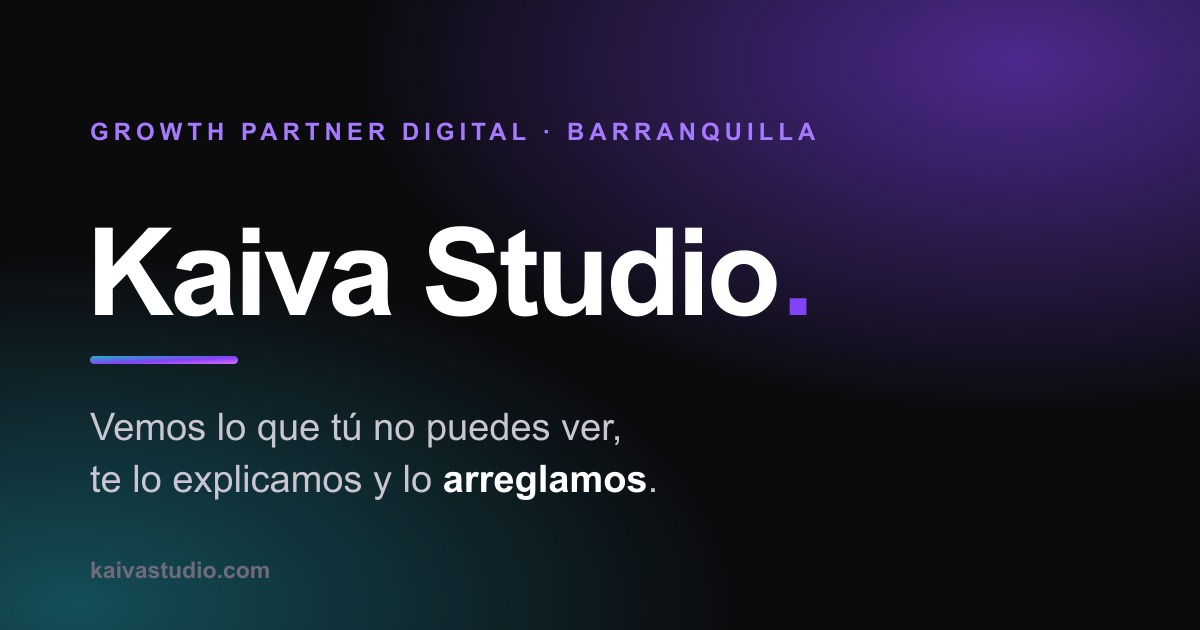
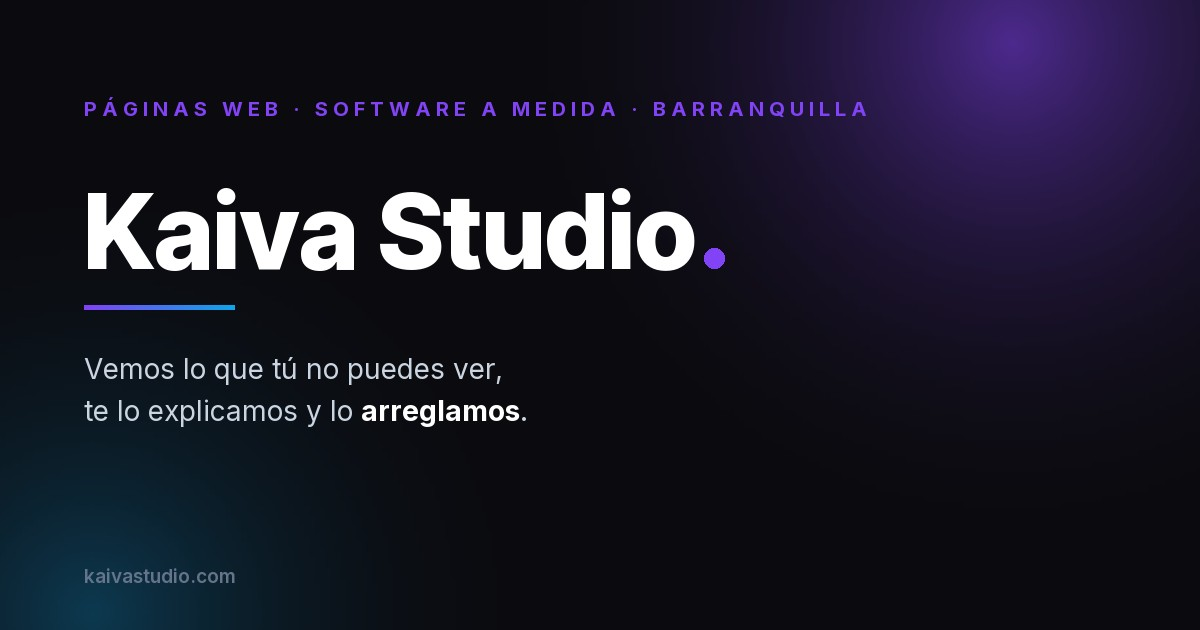
Cinco imagenes de marca, cuatro marcas distintas: ahora salen todas de un guion
Nicolas vio el favicon roto en Search Console y el icono VIEJO en los
resultados de Google, y que el actual no lleva el punto morado. Al ir a
mirarlo, el problema era mas grande: habia cinco imagenes de marca publicadas
a la vez y cuatro marcas diferentes dentro de ellas.

  · logo-kaiva.png ............ "Kaiva Studio." con el punto morado REDONDO
  · kaiva-wordmark-footer.png . "Kaiva" en blanco, sin punto y sin "Studio"
  · favicon.ico / -64 / -96 ... la K sola, SIN punto
  · apple-touch-icon.png ...... un circulo morado con una cara de gato, de
                                una generacion anterior de la marca
  · kaiva-og.jpg .............. "Kaiva Studio." con el punto CUADRADO y el
                                posicionamiento "GROWTH PARTNER DIGITAL"

Cada una se hizo a mano en un momento distinto y por eso divergieron. Es el
mismo mecanismo que habia partido el :root en cinco copias, aplicado a las
imagenes: la forma de que no vuelva a pasar no es acordarse, es que salgan
todas de un sitio.

`tool/src/generar-iconos.py` produce el juego entero desde una sola fuente.
La K NO se redibuja: se recorta del wordmark del pie, que es el archivo de
mayor resolucion que existe de la marca --2400x580, la K sola mide 597x570--.
Se separa por componentes conexas y no por un corte vertical, porque la K y
la "a" se tocan casi: la columna mas vacia entre las dos todavia tiene 81
pixeles de tinta y cortar ahi le arrancaria la pierna a la K. Redibujarla con
[…]

diff --git a/index.html b/index.html
@@ -44,8 +44,9 @@
   <meta name="author" content="Kaiva Studio">
   <meta name="theme-color" content="#0b0b0e">
   <link rel="icon" href="/favicon.ico" sizes="48x48">
-  <link rel="icon" href="/assets/favicon-96.png?v=20260805" type="image/png" sizes="96x96">
-  <link rel="apple-touch-icon" href="assets/apple-touch-icon.png">
+  <link rel="icon" href="/assets/favicon-96.png?v=20260809" type="image/png" sizes="96x96">
+  <link rel="icon" href="/assets/favicon-192.png?v=20260809" type="image/png" sizes="192x192">
+  <link rel="apple-touch-icon" href="/assets/apple-touch-icon.png?v=20260809">
 
   <!-- Open Graph -->
   <meta property="og:type" content="website">
@@ -58,7 +59,7 @@
   <meta property="og:image" content="https://kaivastudio.com/assets/kaiva-og.jpg">
   <meta property="og:image:width" content="1200">
   <meta property="og:image:height" content="630">
-  <meta property="og:image:alt" content="Kaiva Studio — Growth Partner digital">
+  <meta property="og:image:alt" content="Kaiva Studio — páginas web y software a medida en Barranquilla">
 
   <!-- Twitter / X -->
   <meta name="twitter:card" content="summary_large_image">

diff --git a/monitor/index.html b/monitor/index.html
@@ -51,8 +51,9 @@
   <meta name="twitter:description" content="Tu Índice de Salud Digital en 60 segundos. Gratis, sin registro.">
   <meta name="twitter:image" content="https://kaivastudio.com/assets/kaiva-og.jpg">
   <link rel="icon" href="/favicon.ico" sizes="48x48">
-  <link rel="icon" href="/assets/favicon-96.png?v=20260805" type="image/png" sizes="96x96">
-  <link rel="apple-touch-icon" href="../assets/apple-touch-icon.png">
+  <link rel="icon" href="/assets/favicon-96.png?v=20260809" type="image/png" sizes="96x96">
+  <link rel="icon" href="/assets/favicon-192.png?v=20260809" type="image/png" sizes="192x192">
+  <link rel="apple-touch-icon" href="/assets/apple-touch-icon.png?v=20260809">
   <!-- Fuentes autoalojadas, mismo criterio que la home: sin orígenes externos. -->
   <link rel="preload" href="../assets/fonts/inter-latin-var.woff2" as="font" type="font/woff2" crossorigin>
   <link rel="preload" href="../assets/fonts/inter-tight-latin-var.woff2" as="font" type="font/woff2" crossorigin>

diff --git a/404.html b/404.html
@@ -39,8 +39,9 @@
   <meta name="robots" content="noindex, follow">
   <meta name="theme-color" content="#ffffff">
   <link rel="icon" href="/favicon.ico" sizes="48x48">
-  <link rel="icon" href="/assets/favicon-96.png?v=20260805" type="image/png" sizes="96x96">
-  <link rel="apple-touch-icon" href="/assets/apple-touch-icon.png">
+  <link rel="icon" href="/assets/favicon-96.png?v=20260809" type="image/png" sizes="96x96">
+  <link rel="icon" href="/assets/favicon-192.png?v=20260809" type="image/png" sizes="192x192">
+  <link rel="apple-touch-icon" href="/assets/apple-touch-icon.png?v=20260809">
   <link rel="preload" href="/assets/fonts/inter-latin-var.woff2" as="font" type="font/woff2" crossorigin>
   <link rel="preload" href="/assets/fonts/inter-tight-latin-var.woff2" as="font" type="font/woff2" crossorigin>
   <link rel="stylesheet" href="/assets/tokens.css?v=20260808c">

diff --git a/cookies/index.html b/cookies/index.html
@@ -34,8 +34,9 @@
   <meta name="robots" content="index, follow">
   <meta name="theme-color" content="#ffffff">
   <link rel="icon" href="/favicon.ico" sizes="48x48">
-  <link rel="icon" href="/assets/favicon-96.png?v=20260805" type="image/png" sizes="96x96">
-  <link rel="apple-touch-icon" href="/assets/apple-touch-icon.png">
+  <link rel="icon" href="/assets/favicon-96.png?v=20260809" type="image/png" sizes="96x96">
+  <link rel="icon" href="/assets/favicon-192.png?v=20260809" type="image/png" sizes="192x192">
+  <link rel="apple-touch-icon" href="/assets/apple-touch-icon.png?v=20260809">
   <link rel="preload" href="/assets/fonts/inter-latin-var.woff2" as="font" type="font/woff2" crossorigin>
   <link rel="stylesheet" href="/assets/tokens.css?v=20260808c">
   <link rel="stylesheet" href="/assets/legal.css?v=20260808c">

diff --git a/privacidad/index.html b/privacidad/index.html
@@ -34,8 +34,9 @@
   <meta name="robots" content="index, follow">
   <meta name="theme-color" content="#ffffff">
   <link rel="icon" href="/favicon.ico" sizes="48x48">
-  <link rel="icon" href="/assets/favicon-96.png?v=20260805" type="image/png" sizes="96x96">
-  <link rel="apple-touch-icon" href="/assets/apple-touch-icon.png">
+  <link rel="icon" href="/assets/favicon-96.png?v=20260809" type="image/png" sizes="96x96">
+  <link rel="icon" href="/assets/favicon-192.png?v=20260809" type="image/png" sizes="192x192">
+  <link rel="apple-touch-icon" href="/assets/apple-touch-icon.png?v=20260809">
   <link rel="preload" href="/assets/fonts/inter-latin-var.woff2" as="font" type="font/woff2" crossorigin>
   <link rel="stylesheet" href="/assets/tokens.css?v=20260808c">
   <link rel="stylesheet" href="/assets/legal.css?v=20260808c">

diff --git a/terminos/index.html b/terminos/index.html
@@ -34,8 +34,9 @@
   <meta name="robots" content="index, follow">
   <meta name="theme-color" content="#ffffff">
   <link rel="icon" href="/favicon.ico" sizes="48x48">
-  <link rel="icon" href="/assets/favicon-96.png?v=20260805" type="image/png" sizes="96x96">
-  <link rel="apple-touch-icon" href="/assets/apple-touch-icon.png">
+  <link rel="icon" href="/assets/favicon-96.png?v=20260809" type="image/png" sizes="96x96">
+  <link rel="icon" href="/assets/favicon-192.png?v=20260809" type="image/png" sizes="192x192">
+  <link rel="apple-touch-icon" href="/assets/apple-touch-icon.png?v=20260809">
   <link rel="preload" href="/assets/fonts/inter-latin-var.woff2" as="font" type="font/woff2" crossorigin>
   <link rel="stylesheet" href="/assets/tokens.css?v=20260808c">
   <link rel="stylesheet" href="/assets/legal.css?v=20260808c">

diff --git a/blog/chatgpt-gratis-ilimitado-que-cambia/index.html b/blog/chatgpt-gratis-ilimitado-que-cambia/index.html
@@ -35,8 +35,9 @@
   <meta name="robots" content="index, follow, max-image-preview:large">
   <meta name="theme-color" content="#ffffff">
   <link rel="icon" href="/favicon.ico" sizes="48x48">
-  <link rel="icon" href="/assets/favicon-96.png?v=20260805" type="image/png" sizes="96x96">
-  <link rel="apple-touch-icon" href="/assets/apple-touch-icon.png">
+  <link rel="icon" href="/assets/favicon-96.png?v=20260809" type="image/png" sizes="96x96">
+  <link rel="icon" href="/assets/favicon-192.png?v=20260809" type="image/png" sizes="192x192">
+  <link rel="apple-touch-icon" href="/assets/apple-touch-icon.png?v=20260809">
 
   <meta property="og:type" content="article">
   <meta property="og:site_name" content="Kaiva Studio">

diff --git a/blog/como-aparecer-en-google-maps/index.html b/blog/como-aparecer-en-google-maps/index.html
@@ -35,8 +35,9 @@
   <meta name="robots" content="index, follow, max-image-preview:large">
   <meta name="theme-color" content="#ffffff">
   <link rel="icon" href="/favicon.ico" sizes="48x48">
-  <link rel="icon" href="/assets/favicon-96.png?v=20260805" type="image/png" sizes="96x96">
-  <link rel="apple-touch-icon" href="/assets/apple-touch-icon.png">
+  <link rel="icon" href="/assets/favicon-96.png?v=20260809" type="image/png" sizes="96x96">
+  <link rel="icon" href="/assets/favicon-192.png?v=20260809" type="image/png" sizes="192x192">
+  <link rel="apple-touch-icon" href="/assets/apple-touch-icon.png?v=20260809">
 
   <meta property="og:type" content="article">
   <meta property="og:site_name" content="Kaiva Studio">

diff --git a/blog/cuanto-cuesta-una-pagina-web-en-colombia/index.html b/blog/cuanto-cuesta-una-pagina-web-en-colombia/index.html
@@ -35,8 +35,9 @@
   <meta name="robots" content="index, follow, max-image-preview:large">
   <meta name="theme-color" content="#ffffff">
   <link rel="icon" href="/favicon.ico" sizes="48x48">
-  <link rel="icon" href="/assets/favicon-96.png?v=20260805" type="image/png" sizes="96x96">
-  <link rel="apple-touch-icon" href="/assets/apple-touch-icon.png">
+  <link rel="icon" href="/assets/favicon-96.png?v=20260809" type="image/png" sizes="96x96">
+  <link rel="icon" href="/assets/favicon-192.png?v=20260809" type="image/png" sizes="192x192">
+  <link rel="apple-touch-icon" href="/assets/apple-touch-icon.png?v=20260809">
 
   <meta property="og:type" content="article">
   <meta property="og:site_name" content="Kaiva Studio">

diff --git a/blog/cuanto-cuesta-una-pagina-web-en-mexico/index.html b/blog/cuanto-cuesta-una-pagina-web-en-mexico/index.html
@@ -35,8 +35,9 @@
   <meta name="robots" content="index, follow, max-image-preview:large">
   <meta name="theme-color" content="#ffffff">
   <link rel="icon" href="/favicon.ico" sizes="48x48">
-  <link rel="icon" href="/assets/favicon-96.png?v=20260805" type="image/png" sizes="96x96">
-  <link rel="apple-touch-icon" href="/assets/apple-touch-icon.png">
+  <link rel="icon" href="/assets/favicon-96.png?v=20260809" type="image/png" sizes="96x96">
+  <link rel="icon" href="/assets/favicon-192.png?v=20260809" type="image/png" sizes="192x192">
+  <link rel="apple-touch-icon" href="/assets/apple-touch-icon.png?v=20260809">
 
   <meta property="og:type" content="article">
   <meta property="og:site_name" content="Kaiva Studio">

diff --git a/blog/cuanto-cuesta-una-pagina-web-en-peru/index.html b/blog/cuanto-cuesta-una-pagina-web-en-peru/index.html
@@ -35,8 +35,9 @@
   <meta name="robots" content="index, follow, max-image-preview:large">
   <meta name="theme-color" content="#ffffff">
   <link rel="icon" href="/favicon.ico" sizes="48x48">
-  <link rel="icon" href="/assets/favicon-96.png?v=20260805" type="image/png" sizes="96x96">
-  <link rel="apple-touch-icon" href="/assets/apple-touch-icon.png">
+  <link rel="icon" href="/assets/favicon-96.png?v=20260809" type="image/png" sizes="96x96">
+  <link rel="icon" href="/assets/favicon-192.png?v=20260809" type="image/png" sizes="192x192">
+  <link rel="apple-touch-icon" href="/assets/apple-touch-icon.png?v=20260809">
 
   <meta property="og:type" content="article">
   <meta property="og:site_name" content="Kaiva Studio">

diff --git a/blog/cuanto-cuesta-una-tarea-con-ia/index.html b/blog/cuanto-cuesta-una-tarea-con-ia/index.html
@@ -35,8 +35,9 @@
   <meta name="robots" content="index, follow, max-image-preview:large">
   <meta name="theme-color" content="#ffffff">
   <link rel="icon" href="/favicon.ico" sizes="48x48">
-  <link rel="icon" href="/assets/favicon-96.png?v=20260805" type="image/png" sizes="96x96">
-  <link rel="apple-touch-icon" href="/assets/apple-touch-icon.png">
+  <link rel="icon" href="/assets/favicon-96.png?v=20260809" type="image/png" sizes="96x96">
+  <link rel="icon" href="/assets/favicon-192.png?v=20260809" type="image/png" sizes="192x192">
+  <link rel="apple-touch-icon" href="/assets/apple-touch-icon.png?v=20260809">
 
   <meta property="og:type" content="article">
   <meta property="og:site_name" content="Kaiva Studio">
